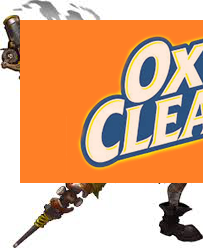
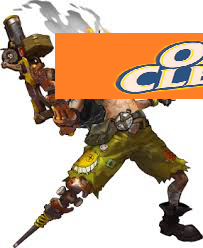
Finished Braden's Part of Program

diff --git a/Bradens_Folder/boop.py b/Bradens_Folder/boop.py
@@ -22,7 +22,7 @@ def get_images(directory=None):
             pass 
     return image_list, file_list          
 
-def paste_on_all_images(directory=None):
+def orange_logo(x,y,directory=None):
     if directory == None:
         directory = os.getcwd()
     new_directory = os.path.join(directory, 'modified') 
@@ -33,7 +33,7 @@ def paste_on_all_images(directory=None):
     image_list,file_list = get_images(directory) 
     for n in range(len(file_list)):
         new_image= image_list[n]
-        new_image.paste(im,(20,20))
+        new_image.paste(im,(x,y))
         filename, filetype = os.path.splitext(file_list[n])
         new_image_filename = os.path.join(new_directory, filename + '.png')
         new_image.save(new_image_filename)    
